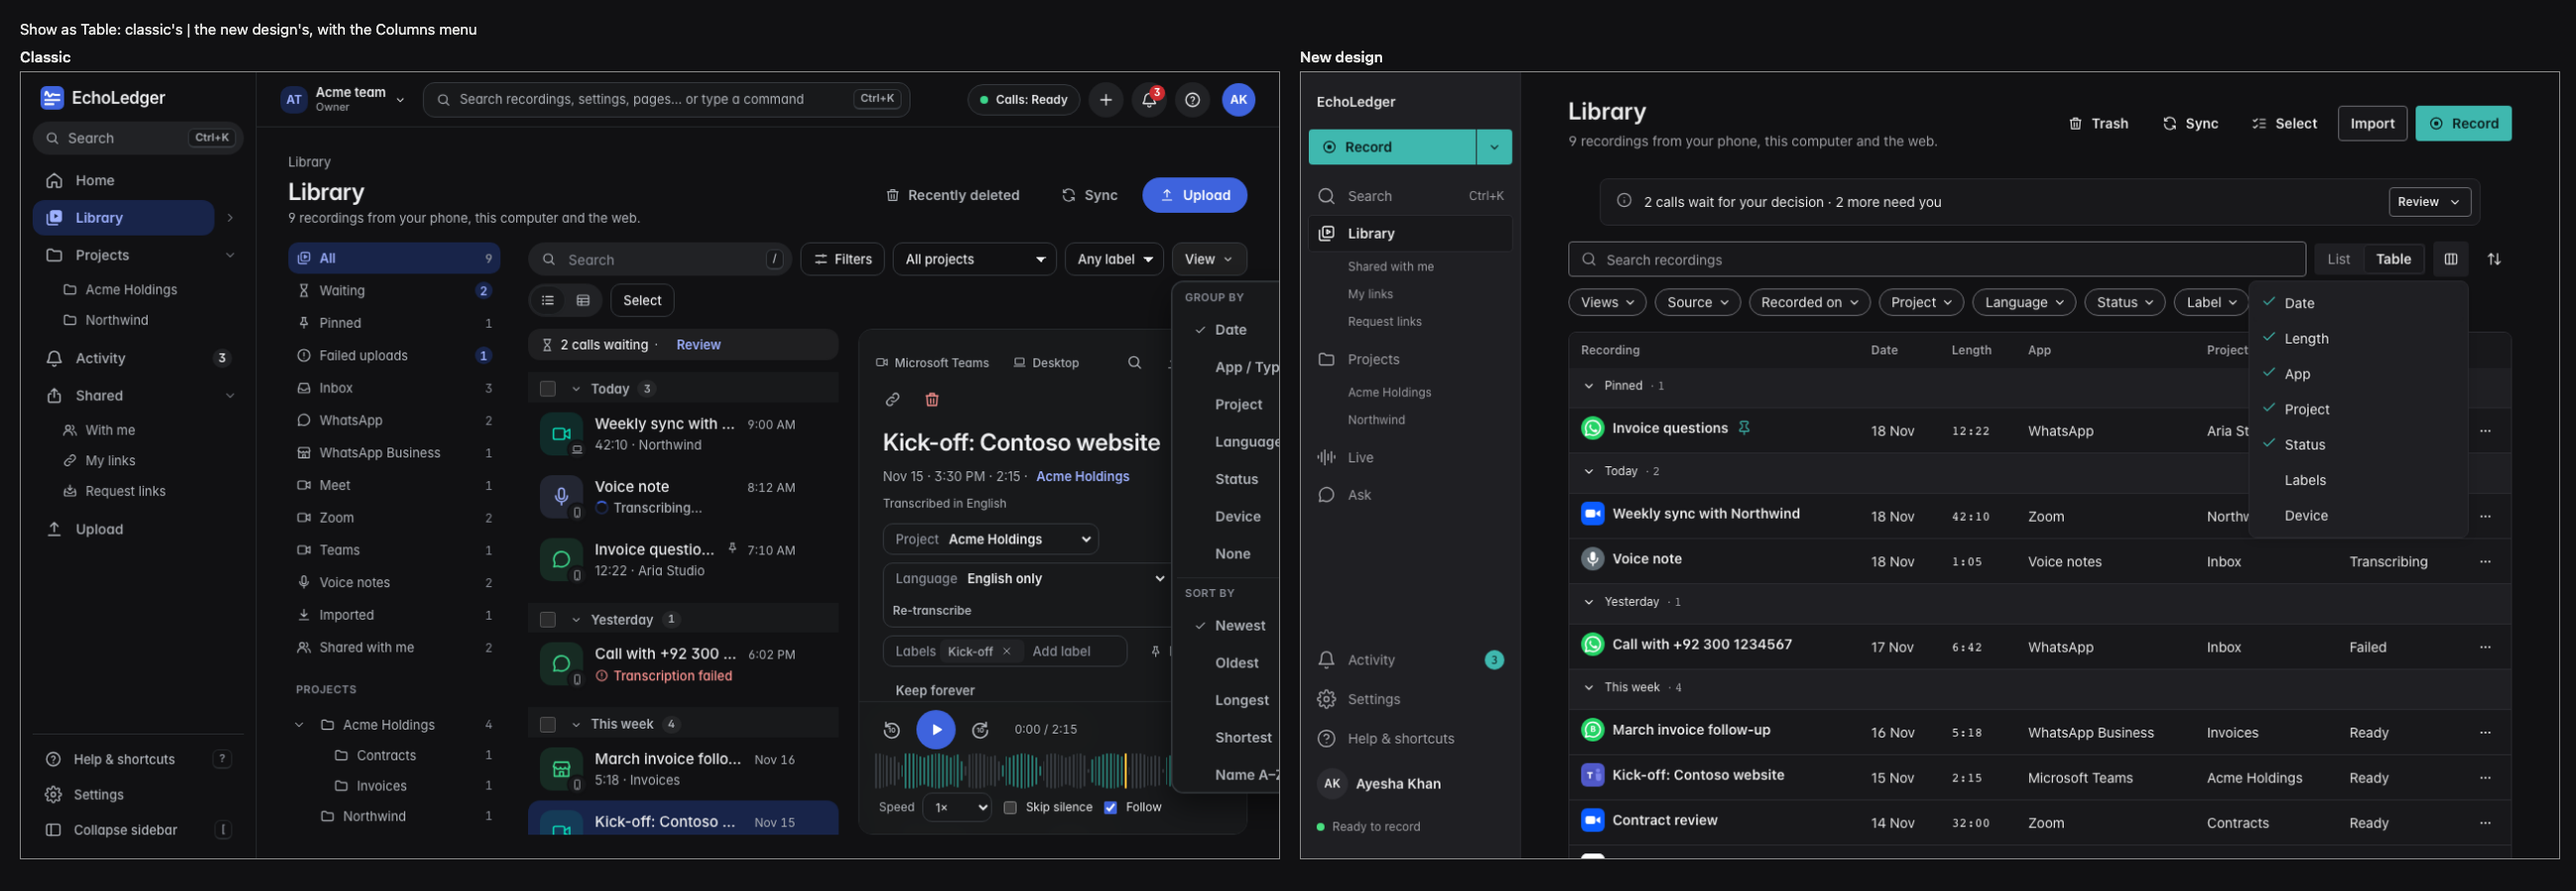
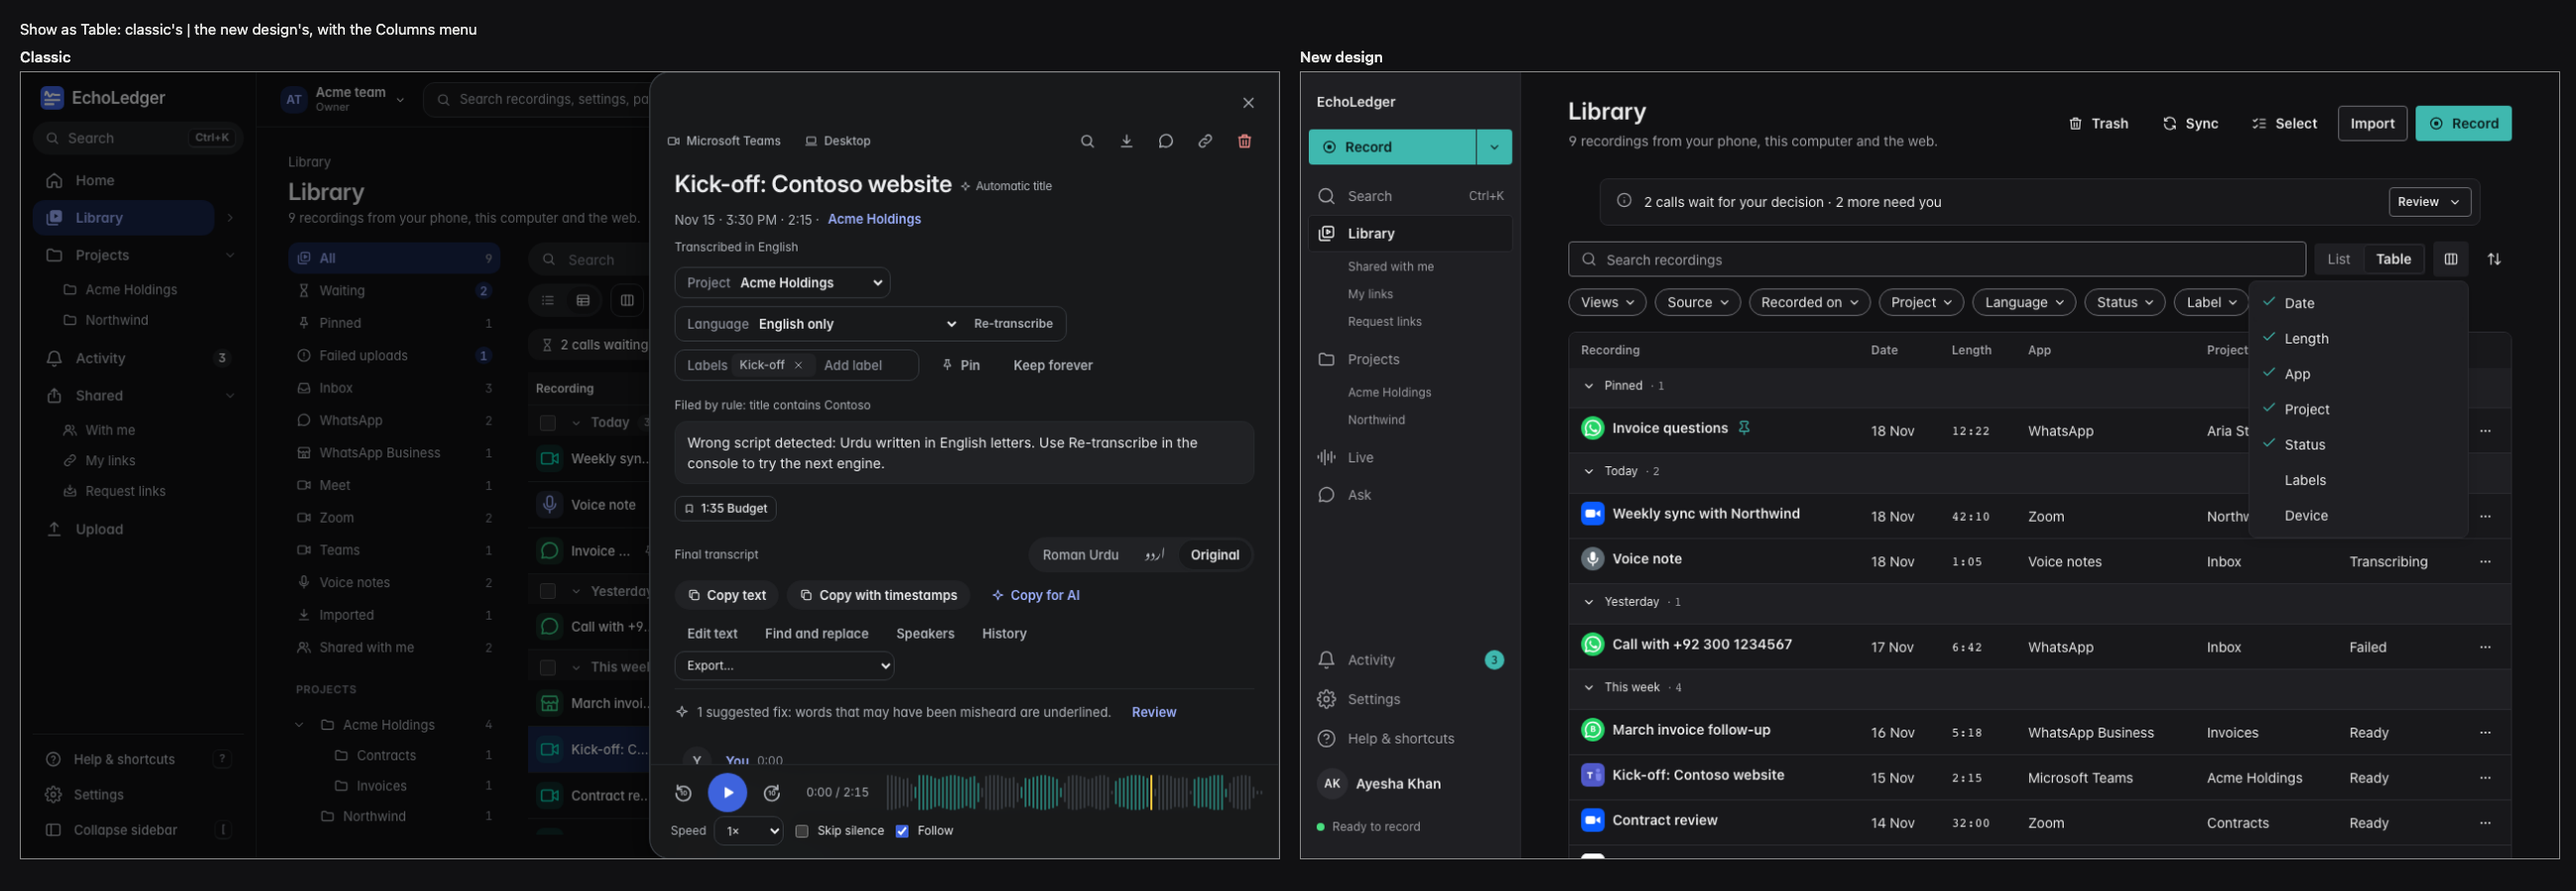
Review: the table's drawer is a modal dialog that keeps focus, Recovered beside the status badge in the list and the table, a saved line closes only itself; pictures of the drawer, header, Details and Record's menu

diff --git a/desktop/src/v2/library/LibraryV2.tsx b/desktop/src/v2/library/LibraryV2.tsx
@@ -2,16 +2,16 @@
 // reloaded on library:updated), as WhatsApp-style rows with the saved views All, Today, Untranscribed and Trash. One
 // feedback system: the Toast, one at a time, with Undo after a delete. Selection mode (Select, a Cmd/Ctrl- or Shift-click,
 // Cmd/Ctrl+A or X) picks several; the row ⋮, a right-click and the selection bar's ⋮ are one menu (organise.tsx).
-import { useCallback, useEffect, useMemo, useRef, useState, type KeyboardEvent as ReactKeyboardEvent, type MouseEvent as ReactMouseEvent } from "react";
+import { useCallback, useEffect, useMemo, useRef, useState, type ReactNode, type KeyboardEvent as ReactKeyboardEvent, type MouseEvent as ReactMouseEvent } from "react";
 import { listen } from "@tauri-apps/api/event";
 import { api, errorMessage, type BinItem, type BulkAction, type LibraryItem, type SearchResult } from "../../lib/ipc";
 import { formatDuration, rowDate, timestamp } from "../../lib/format";
 import { snippetParts } from "../../lib/player";
 import { eraseIn } from "../../views/main/LibraryOrganise";
 import { hoursWords, useTrashKeepHours } from "../../lib/trash";
-import { useRecovered } from "../../lib/recovered";
+import { RECOVERED_CHIP, useRecovered } from "../../lib/recovered";
 import {
-  Badge, Button, Card, Chip, Dialog, Icon, Segmented, EmptyState, FilterBar, Icons, List, ListRow, ListSection, Loading, SearchField, SkeletonRow,
+  Badge, Button, Card, Chip, Dialog, Icon, Segmented, useFocusTrap, EmptyState, FilterBar, Icons, List, ListRow, ListSection, Loading, SearchField, SkeletonRow,
   Toast, ToastRegion,
 } from "../components";
 import { ScreensMark } from "./screens";
@@ -539,10 +539,7 @@ export function LibraryV2({ onImport, onRecord, openRequest, viewRequest, top, o
   const drawer = open && (
     <>
       <div className="el-drawer-scrim" aria-hidden="true" onMouseDown={closeOpen} />
-      <aside className="el-drawer" aria-label={recordingName(open.title)}>
-        <Button variant="quiet" icon={Icons.CloseIcon} className="el-drawer__close" aria-label="Close" aria-keyshortcuts="Escape" onClick={closeOpen} autoFocus />
-        {recordingPage}
-      </aside>
+      <Drawer label={recordingName(open.title)} onClose={closeOpen}>{recordingPage}</Drawer>
     </>
   );
 
@@ -733,7 +730,7 @@ export function LibraryV2({ onImport, onRecord, openRequest, viewRequest, top, o
             action={<Button onClick={clearAll}>{query && !filtersOn ? "Clear search" : filtersOn ? "Clear filters" : "Show all"}</Button>} />
         ) : layout === "table" ? (
           <LibraryTable groups={groups} columns={columns} collapsed={collapsed} onFold={fold} selecting={selecting} picked={picked}
-            onRow={rowClick} onRowMenu={rowMenu}
+            onRow={rowClick} onRowMenu={rowMenu} recovered={recovered}
             rowActions={(item) => <Menu label={`More for ${recordingName(item.title)}`} items={() => menuFor([item.id])} button={{ variant: "quiet", size: "sm", icon: Icons.MoreIcon }} />} />
         ) : (
           <List label="Recordings">
@@ -751,7 +748,10 @@ export function LibraryV2({ onImport, onRecord, openRequest, viewRequest, top, o
                 const r = rowModel(item);
                 return (
                   <ListRow key={item.id} leading={<SourceAvatar item={item} />} strong title={r.title} meta={r.meta}
-                    badge={r.badge ? <Badge tone={r.badge.tone}>{r.badge.text}</Badge> : recovered.has(item.id) ? <Badge tone="accent">Recovered</Badge> : undefined}
+                    badge={r.badge || recovered.has(item.id) ? <>
+                      {r.badge && <Badge tone={r.badge.tone}>{r.badge.text}</Badge>}
+                      {recovered.has(item.id) && <Badge tone="accent">{RECOVERED_CHIP}</Badge>}
+                    </> : undefined}
                     mark={item.pinned || r.screens || item.labels?.length ? <>
                       {item.pinned && <span className="el-row__pin"><Icon icon={Icons.PinIcon} /><span className="el-visually-hidden">Pinned</span></span>}{" "}
                       {r.screens ? <ScreensMark count={r.screens} /> : null}
@@ -774,6 +774,31 @@ export function LibraryV2({ onImport, onRecord, openRequest, viewRequest, top, o
       {drawer}
       {dialogs}
       {toasts}
+    </div>
+  );
+}
+
+/**
+ * A recording opened from the table: a modal panel on the end side (role="dialog"); focus moves in, Tab stays inside,
+ * Esc or Close closes it, and focus goes back to the row.
+ */
+function Drawer({ label, onClose, children }: { label: string; onClose: () => void; children: ReactNode }) {
+  const panel = useRef<HTMLDivElement>(null);
+  const close = useRef<HTMLButtonElement>(null);
+  const trap = useFocusTrap(panel, close);
+  return (
+    <div ref={panel} className="el-drawer" role="dialog" aria-modal="true" aria-label={label} tabIndex={-1}
+      onKeyDown={(e) => {
+        if (e.key === "Escape" && !e.defaultPrevented) {
+          e.preventDefault();
+          e.stopPropagation();
+          onClose();
+          return;
+        }
+        trap(e);
+      }}>
+      <Button ref={close} variant="quiet" icon={Icons.CloseIcon} className="el-drawer__close" aria-label="Close" aria-keyshortcuts="Escape" onClick={onClose} />
+      {children}
     </div>
   );
 }

diff --git a/desktop/src/v2/library/libraryTable.test.tsx b/desktop/src/v2/library/libraryTable.test.tsx
@@ -76,22 +76,38 @@ describe("the Library as a table", () => {
     fireEvent.click(within(table()).getByRole("button", { name: "Ali" }));
     await act(flushAsync);
     // A drawer over the table, as classic's: the table stays; Close, Esc and the scrim close it, focus back on the row.
-    const drawer = screen.getByRole("complementary", { name: "Ali" });
+    const drawer = screen.getByRole("dialog", { name: "Ali" });
     expect(within(drawer).getByRole("heading", { level: 1, name: "Ali" })).toBeInTheDocument();
-    expect(table()).toBeInTheDocument();
-    fireEvent.click(within(drawer).getByRole("button", { name: "Close" }));
+    expect(drawer).toHaveAttribute("aria-modal", "true");
+    expect(within(drawer).getByRole("button", { name: "Close" })).toHaveFocus();
+    // Tab stays inside: from the last control back to the first.
+    const inside = [...drawer.querySelectorAll<HTMLElement>("button:not([disabled])")];
+    inside[inside.length - 1].focus();
+    fireEvent.keyDown(inside[inside.length - 1], { key: "Tab" });
+    expect(within(drawer).getByRole("button", { name: "Close" })).toHaveFocus();
+    // Esc inside the drawer closes it too.
+    fireEvent.keyDown(within(drawer).getByRole("button", { name: "Close" }), { key: "Escape" });
     await act(flushAsync);
-    expect(screen.queryByRole("complementary", { name: "Ali" })).toBeNull();
+    expect(screen.queryByRole("dialog", { name: "Ali" })).toBeNull();
+    // A press on a row focuses it (as a click does): closing gives focus back there.
+    act(() => within(table()).getByRole("button", { name: "Ali" }).focus());
+    fireEvent.click(within(table()).getByRole("button", { name: "Ali" }));
+    await act(flushAsync);
+    const again = screen.getByRole("dialog", { name: "Ali" });
+    expect(table()).toBeInTheDocument();
+    fireEvent.click(within(again).getByRole("button", { name: "Close" }));
+    await act(flushAsync);
+    expect(screen.queryByRole("dialog", { name: "Ali" })).toBeNull();
     expect(within(table()).getByRole("button", { name: "Ali" })).toHaveFocus();
     fireEvent.click(within(table()).getByRole("button", { name: "Ali" }));
     await act(flushAsync);
     fireEvent.keyDown(document.body, { key: "Escape" });
     await act(flushAsync);
-    expect(screen.queryByRole("complementary", { name: "Ali" })).toBeNull();
+    expect(screen.queryByRole("dialog", { name: "Ali" })).toBeNull();
     fireEvent.click(within(table()).getByRole("button", { name: "Bina" }));
     await act(flushAsync);
     fireEvent.mouseDown(document.querySelector(".el-drawer-scrim")!);
     await act(flushAsync);
-    expect(screen.queryByRole("complementary", { name: "Bina" })).toBeNull();
+    expect(screen.queryByRole("dialog", { name: "Bina" })).toBeNull();
   });
 });

diff --git a/desktop/src/v2/library/transcriptTools.test.tsx b/desktop/src/v2/library/transcriptTools.test.tsx
@@ -110,7 +110,24 @@ describe("transcript tools", () => {
     expect(lines()).toEqual(["Standup words."]);
   });
 
-  it("while editing Show as is off and a line starts from the words as heard, never a view's", async () => {
+  it("a line opened while the last one saves stays open when that save comes back", async () => {
+    let answer: (v: unknown) => void = () => undefined;
+    respondWith("transcript_edit", () => new Promise((done) => { answer = done; }));
+    await open();
+    fireEvent.click(within(tools()).getByRole("button", { name: "Edit text" }));
+    fireEvent.click(screen.getByRole("button", { name: "Edit line 1: Hello, this is Sam." }));
+    const first = screen.getByRole("textbox", { name: "Edit line" });
+    fireEvent.change(first, { target: { value: "Hello, Sam here." } });
+    fireEvent.keyDown(first, { key: "Enter", ctrlKey: true });
+    fireEvent.click(screen.getByRole("button", { name: /^Edit line 2:/ }));
+    expect(screen.getByRole("textbox", { name: "Edit line" })).toHaveValue("Hi Sam, thanks for calling back.");
+    const t = makeTranscript({ id: "tr-1" });
+    t.segments = t.segments.map((x, i) => (i === 0 ? { ...x, text: "Hello, Sam here." } : x));
+    await act(async () => answer(t));
+    expect(screen.getByRole("textbox", { name: "Edit line" })).toHaveValue("Hi Sam, thanks for calling back.");
+  });
+
+    it("while editing Show as is off and a line starts from the words as heard, never a view's", async () => {
     respond("transcript_detail", makeTranscript({ id: "tr-1", views: { available: ["roman"], status: "ready" } }));
     respond("transcript_views", { status: "ready", available: ["roman"], roman: ["Roman line one", null, null, null], english: null, model: null, made_at: null, error: null });
     await open();

diff --git a/desktop/src/v2/library/LibraryTable.tsx b/desktop/src/v2/library/LibraryTable.tsx
@@ -7,7 +7,8 @@ import type { ItemGroup } from "../../lib/libraryGroups";
 import { formatDuration, rowDate } from "../../lib/format";
 import { itemState, recordingName } from "../../lib/library";
 import { sourceLabel } from "../../lib/libraryGroups";
-import { Icon, Icons } from "../components";
+import { Badge, Icon, Icons } from "../components";
+import { RECOVERED_CHIP } from "../../lib/recovered";
 import type { MenuItem } from "../components/Menu";
 import { SourceAvatar } from "./SourceAvatar";
 
@@ -71,7 +72,9 @@ export function columnsMenu(columns: readonly Column[], onChange: (c: Column[]) 
   }));
 }
 
-export function LibraryTable({ groups, columns, collapsed, onFold, selecting, picked, onRow, onRowMenu, rowActions }: {
+export function LibraryTable({ groups, columns, collapsed, onFold, selecting, picked, onRow, onRowMenu, rowActions, recovered }: {
+  /** Recordings recovered after a restart: their "Recovered" chip. */
+  recovered?: ReadonlySet<string>;
   groups: readonly ItemGroup[];
   columns: readonly Column[];
   collapsed: ReadonlySet<string>;
@@ -120,6 +123,7 @@ export function LibraryTable({ groups, columns, collapsed, onFold, selecting, pi
                       <span className="el-table__title" dir="auto">{name}</span>
                       {item.pinned && <span className="el-row__pin"><Icon icon={Icons.PinIcon} /><span className="el-visually-hidden">Pinned</span></span>}
                     </button>
+                    {recovered?.has(item.id) && <Badge tone="accent">{RECOVERED_CHIP}</Badge>}
                   </td>
                   {columns.map((c) => <td key={c} dir="auto">{cell(item, c)}</td>)}
                   <td className="el-table__actions">{selecting ? null : rowActions(item)}</td>

diff --git a/desktop/scripts/screens/data.ts b/desktop/scripts/screens/data.ts
@@ -40,7 +40,8 @@ export const ITEMS: LibraryItem[] = [
     started_at: at(1, 18, 2), duration_ms: 402_000, status: "failed", transcript: { final_status: "failed", final_transcript_id: "t-r4", live_available: false, preview: null } }),
   makeItem("r5", { title: "Kick-off: Contoso website", source_app: "microsoft_teams", source_app_label: "Microsoft Teams", source_device: "desktop", source_device_label: "Desktop",
     client: client("c-acme", "Acme Holdings"), started_at: at(3, 15, 30), duration_ms: 135_000, status: "completed", language: "en", language_chip: "EN", marker_count: 1, tags: ["Budget"],
-    labels: ["Kick-off"], filed_by: "rule", transcript: ready("r5", "Welcome everyone, thanks for joining the kick-off.") }),
+    labels: ["Kick-off"], filed_by: "rule", title_auto: true,
+    transcript: { ...ready("r5", "Welcome everyone, thanks for joining the kick-off."), script_warning: "latin" } }),
   // v1.5: recordings in Acme's folders.
   makeItem("r8", { title: "March invoice follow-up", source_app: "whatsapp_business", source_app_label: "WhatsApp Business", source_device: "phone", source_device_label: "Phone",
     client: client("c-acme-inv", "Invoices"), started_at: at(2, 10, 20), duration_ms: 318_000, status: "completed", transcript: ready("r8", "The March invoice is still open.") }),

diff --git a/desktop/src/v2/library/RecordingPage.tsx b/desktop/src/v2/library/RecordingPage.tsx
@@ -52,7 +52,7 @@ type ShowAs = "original" | TranscriptView;
 
 /** Keys the page leaves alone: typing, and anything inside a dialog or a menu. */
 const inField = (target: EventTarget | null) =>
-  target instanceof HTMLElement && (target.isContentEditable || !!target.closest('[role="dialog"], [role="alertdialog"], [role="menu"], [role="listbox"]'));
+  target instanceof HTMLElement && (target.isContentEditable || !!target.closest('[role="dialog"]:not(.el-drawer), [role="alertdialog"], [role="menu"], [role="listbox"]'));
 
 export function RecordingPage({ item, startAt = null, onBack, onMessage, menu, onOpenProject }: RecordingPageProps) {
   const [sharing, setSharing] = useState(false);
@@ -184,7 +184,8 @@ export function RecordingPage({ item, startAt = null, onBack, onMessage, menu, o
     if (stillShown(t.id)) setTranscript({ state: "ready", value: t });
   };
   const saveLine = async (index: number, text: string) => {
-    if (mounted.current) setEditLine(null);
+    // Another line opened meanwhile stays open: only the saved line closes.
+    if (mounted.current) setEditLine((l) => (l === index ? null : l));
     const id = shownTranscript.current;
     if (!id) return;
     try {

diff --git a/desktop/src/v2/styles/v2.css b/desktop/src/v2/styles/v2.css
@@ -1112,3 +1112,4 @@ mark.el-find--current { background: var(--el-role-accent-default); color: var(--
 .el-recording__keys { margin-inline-start: auto; align-self: center; }
 .el-bookmarks { display: flex; flex-wrap: wrap; gap: var(--el-space-8); padding: 0 var(--el-space-16) var(--el-space-12); }
 .el-row__label { padding-inline: var(--el-space-4); border-radius: var(--el-radius-sm); background: var(--el-role-bg-subtle); color: var(--el-role-text-secondary); font-size: var(--el-text-caption-size); white-space: nowrap; }
+.el-drawer .el-page__head { padding-inline-end: var(--el-space-40); }
